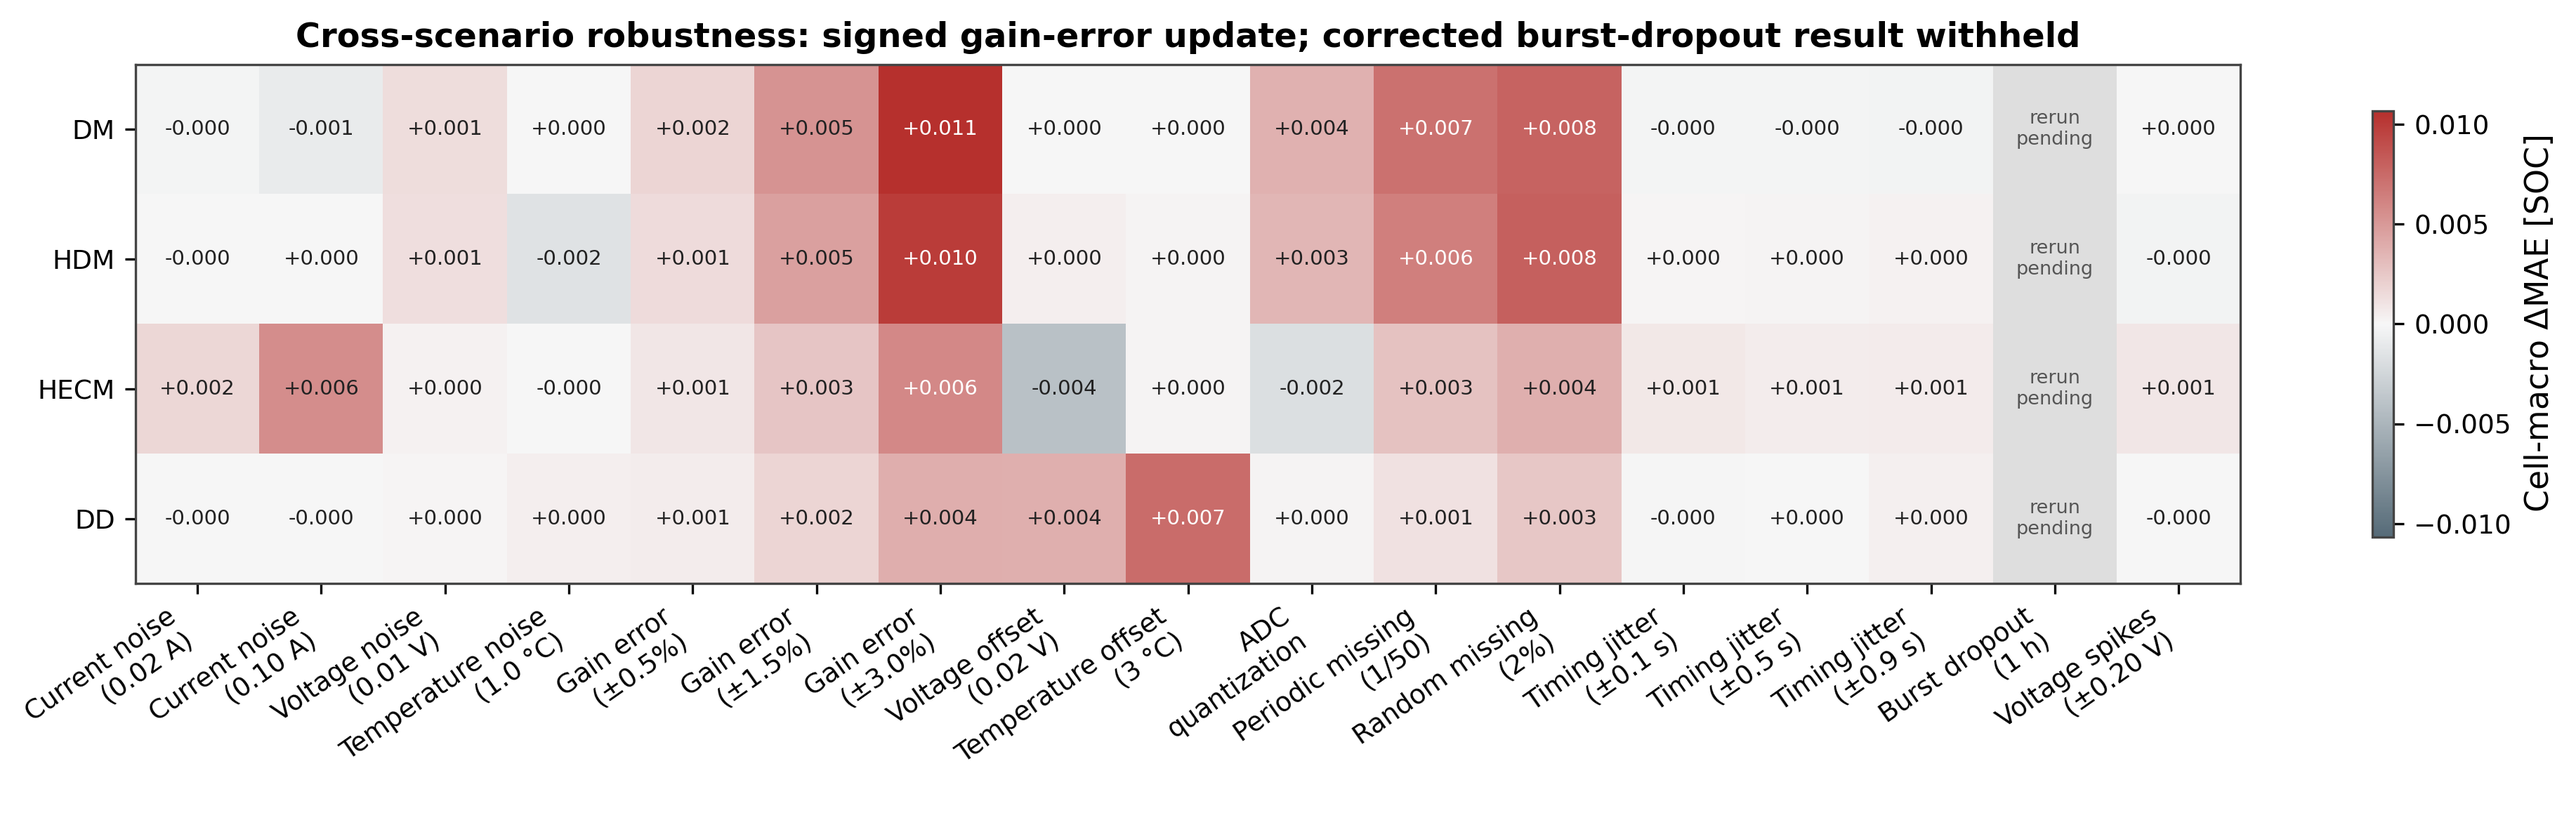
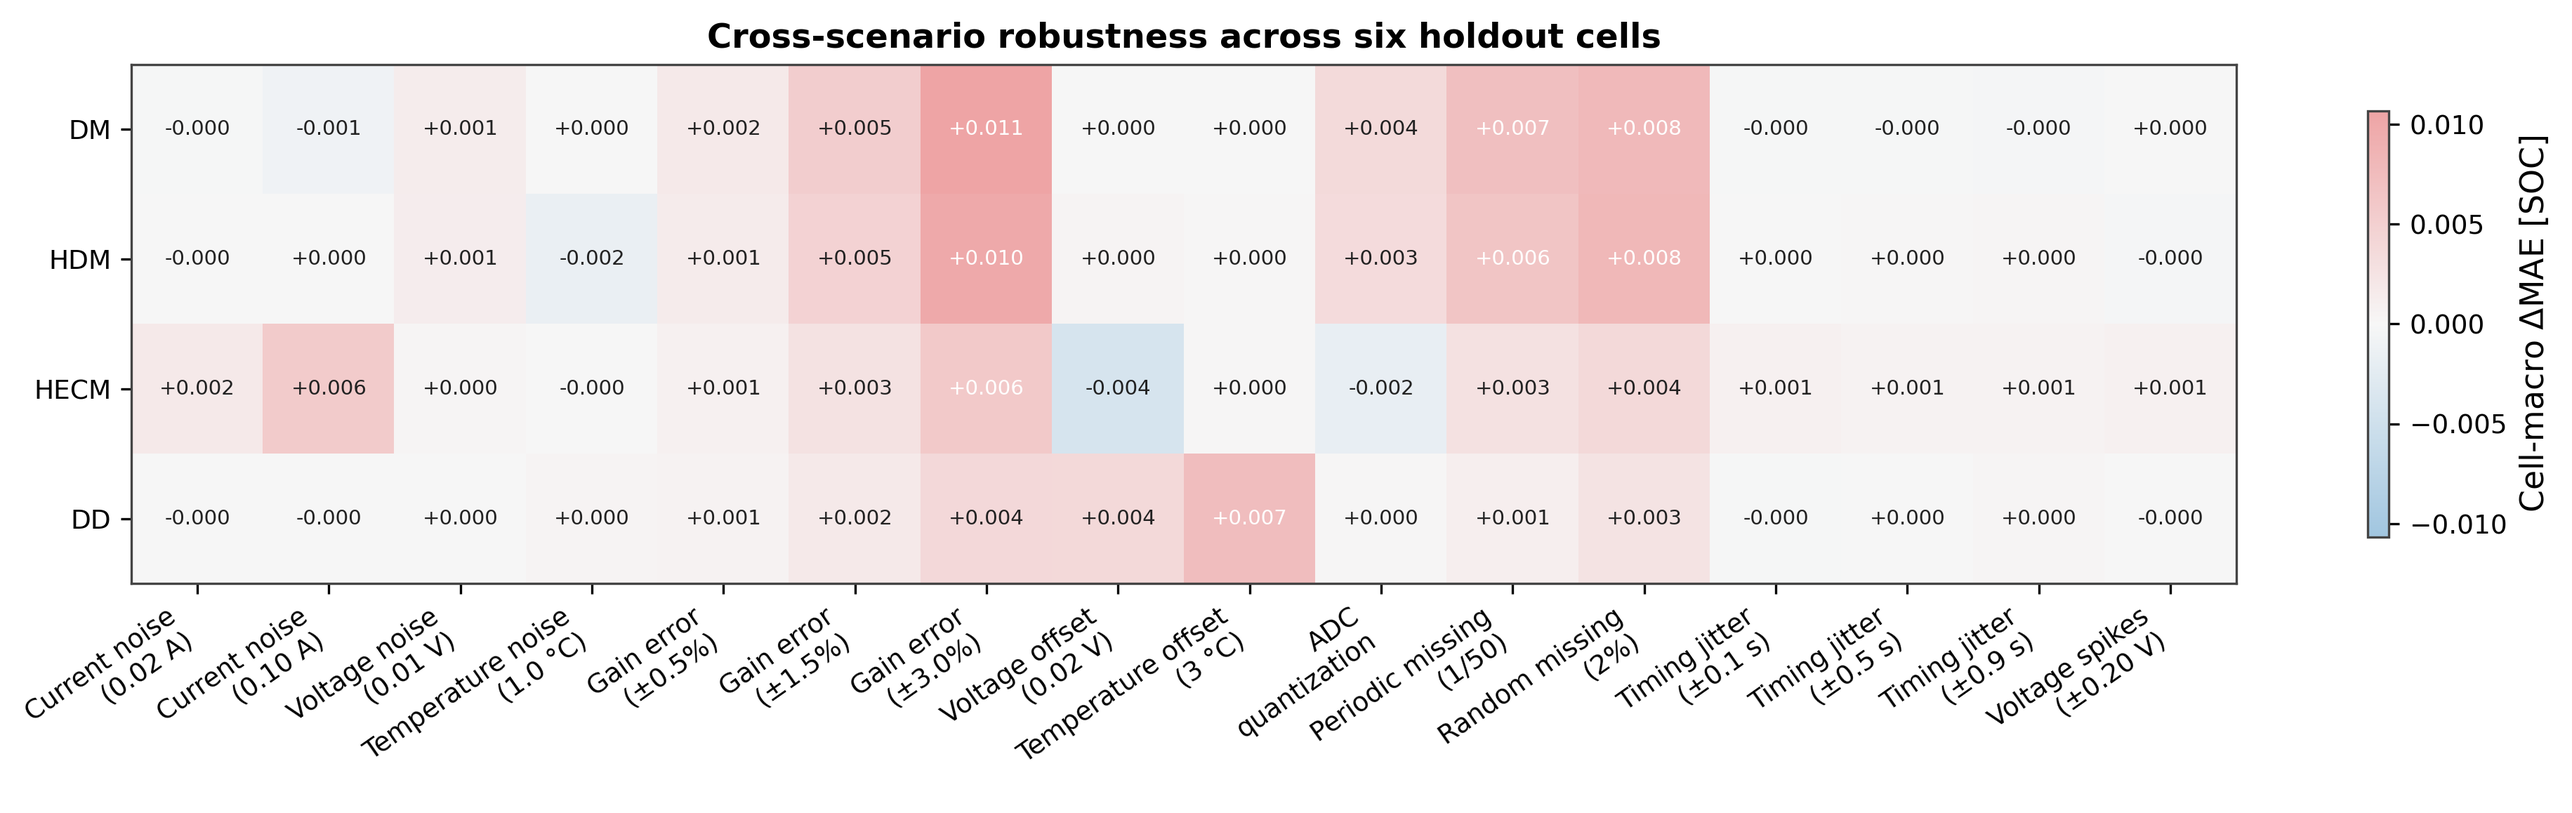
Update six-cell robustness heatmap palette

diff --git a/LATEX/JES/paper_robustness_benchmark/figures/build_revised_all_cells_figures.py b/LATEX/JES/paper_robustness_benchmark/figures/build_revised_all_cells_figures.py
@@ -3,12 +3,13 @@
 
 The script deliberately keeps the detailed dissertation figures untouched.  It
 creates complementary views whose local and aggregate statements use the same
-metric, replaces the current-bias heatmap entries with the signed paired sweep,
-and withholds burst-dropout scores until the corrected six-cell rerun exists.
+metric and replaces the current-bias heatmap entries with the signed paired
+sweep. Burst dropout is omitted because no corrected six-cell result exists.
 """
 
 from __future__ import annotations
 
+import argparse
 import json
 from pathlib import Path
 
@@ -56,7 +57,6 @@ ALIAS_ORDER = [
     "irregular_sampling_0p1s",
     "irregular_sampling_0p5s",
     "irregular_sampling_0p9s",
-    "missing_gap_1h",
     "voltage_spikes",
 ]
 
@@ -138,9 +138,6 @@ def revised_delta_matrix(aggregate: pd.DataFrame, signed_bias: pd.DataFrame) -> 
         replacement = signed_bias[np.isclose(signed_bias["bias_magnitude_pct"], magnitude)].set_index("model")["mean"]
         pivot.loc[:, alias] = replacement.reindex(MODEL_ORDER)
 
-    # The central-gap placement and online Q_c semantics changed.  Publishing
-    # the previous campaign value would imply a precision the data no longer has.
-    pivot.loc[:, "missing_gap_1h"] = np.nan
     return pivot
 
 
@@ -226,11 +223,13 @@ def figure_11_spike_susceptibility(run_metrics: pd.DataFrame, aggregate: pd.Data
     save(fig, "Figure_11_Voltage_Spike_Response_REVISED")
 
 
-def figure_12_heatmap(matrix: pd.DataFrame) -> None:
+def figure_12_heatmap(matrix: pd.DataFrame, output_path: Path | None = None) -> None:
     matrix.to_csv(RESULTS / "jes2_revised_delta_mae_matrix.csv")
     values = matrix.to_numpy(float)
     finite_limit = max(float(np.nanmax(np.abs(values))), 1e-6)
-    cmap = LinearSegmentedColormap.from_list("diss_diverging", ["#566b78", "#f7f7f7", "#b6302d"])
+    cmap = LinearSegmentedColormap.from_list(
+        "diss_diverging", ["#a1c6e0", "#f7f7f7", "#eea4a5"]
+    )
     cmap.set_bad("#dedede")
 
     fig, ax = plt.subplots(figsize=(13.8, 4.4))
@@ -245,11 +244,16 @@ def figure_12_heatmap(matrix: pd.DataFrame) -> None:
                 ax.text(col, row, f"{value:+.3f}", ha="center", va="center", fontsize=7,
                         color="white" if abs(value) > 0.55 * finite_limit else "#222222")
             else:
-                ax.text(col, row, "rerun\npending", ha="center", va="center", fontsize=6.5, color="#555555")
+                ax.text(col, row, "n/a", ha="center", va="center", fontsize=6.5, color="#555555")
     fig.colorbar(image, ax=ax, label=r"Cell-macro $\Delta$MAE [SOC]", shrink=0.82)
-    ax.set_title("Cross-scenario robustness: signed gain-error update; corrected burst-dropout result withheld")
+    ax.set_title("Cross-scenario robustness across six holdout cells")
     fig.subplots_adjust(left=0.055, right=0.96, bottom=0.30, top=0.86)
-    save(fig, "Figure_12_Cross_Scenario_Heatmap_REVISED")
+    if output_path is None:
+        save(fig, "Figure_12_Cross_Scenario_Heatmap_REVISED")
+    else:
+        output_path.parent.mkdir(parents=True, exist_ok=True)
+        fig.savefig(output_path, dpi=300, bbox_inches="tight", facecolor="white")
+        plt.close(fig)
 
 
 def initial_recovery_cell_means() -> pd.DataFrame:
@@ -377,18 +381,27 @@ def figure_13_decision(scores: pd.DataFrame, profiles: pd.DataFrame) -> None:
     bars.legend(ncol=4, frameon=False, loc="upper center", bbox_to_anchor=(0.5, 1.13))
     fig.suptitle("Decision synthesis updated with signed gain-error and paired Six-Cell recovery", fontsize=12)
     fig.text(0.5, 0.015,
-             "Higher is better. Burst dropout is excluded until the corrected Six-Cell rerun; weights are explicit decision profiles, not a universal ranking.",
+             "Higher is better. Burst dropout is excluded because no corrected Six-Cell result is available; weights are explicit decision profiles, not a universal ranking.",
              ha="center", fontsize=8.5, color="#555555")
     fig.subplots_adjust(left=0.05, right=0.98, bottom=0.13, top=0.84)
     save(fig, "Figure_13_Decision_Synthesis_REVISED")
 
 
 def main() -> None:
+    parser = argparse.ArgumentParser(description="Build revised six-cell JES figures.")
+    parser.add_argument("--figure-12-only", action="store_true")
+    parser.add_argument("--figure-12-output", type=Path, default=None)
+    args = parser.parse_args()
+
     setup_style()
     aggregate = pd.read_csv(RESULTS / "jes2_macro_statistics.csv")
-    run_metrics = pd.read_csv(RESULTS / "jes2_run_metrics.csv")
     signed_bias = pd.read_csv(RESULTS / "jes2_signed_current_bias_statistics.csv")
     matrix = revised_delta_matrix(aggregate, signed_bias)
+    if args.figure_12_only:
+        figure_12_heatmap(matrix, args.figure_12_output)
+        return
+
+    run_metrics = pd.read_csv(RESULTS / "jes2_run_metrics.csv")
     figure_11_spike_susceptibility(run_metrics, aggregate)
     figure_12_heatmap(matrix)
     scores, profiles = decision_scores(aggregate, matrix)

diff --git a/LATEX/JES/paper_robustness_benchmark/figures/Results/All Cells/README.md b/LATEX/JES/paper_robustness_benchmark/figures/Results/All Cells/README.md
@@ -17,7 +17,7 @@ Farbschema ist durchgängig DM = grün, HDM = lila, HECM = blau und DD = rot.
 | 09 | Durch `Figure_09_Burst_Dropout_Transition_CORR` ersetzt | Korrigierter C29-Übergang mit eingefrorenen Online-Zuständen während des Gaps. Das Six-Cell-Recovery-Panel stammt noch aus den bisherigen Vollkampagnen und muss nach einem vollständigen korrigierten Six-Cell-Rerun aktualisiert werden. |
 | 10 | Original erhalten, aber als `LEGACY_REVIEW` markiert | Verwendet das frühere Dropout-Protokoll; nicht als finales Ergebnis zitieren. Die gültige Übergangsdarstellung ist Fig. 09. |
 | 11 | Dissertation-Abbildung erhalten; 11b zeigt dieselbe >5%-Transientenmetrik als Six-Cell-Makro, Zellpunkte und HECM/DD-Aufschlüsselung nach SOH-Zustand | Der frühere DD-selektierte C29-Ausschnitt wurde entfernt, weil er die globale HECM-Anfälligkeit nicht erklären konnte. |
-| 12 | Dissertation-Abbildung erhalten; 12b verwendet die gepaarte ±Gain-Fehler-Auswertung | Burst dropout ist als `rerun pending` ausgegraut und wird nicht mit veralteten Zahlen dargestellt. |
+| 12 | Dissertation-Abbildung erhalten; 12b verwendet die gepaarte ±Gain-Fehler-Auswertung und die blau-weiß-rote Diss-Heatmap-Palette | Burst dropout ist aus 12b entfernt, weil nur ein korrigierter C29-Preview und kein korrigiertes Six-Cell-Makro vorliegt. Die frühere rot-graue Variante bleibt als `Figure_12b_Cross_Scenario_Heatmap_Six_Cell_Muted_Red_Gray.png` erhalten. |
 | 13 | Dissertation-Abbildung erhalten; Radar und Prioritätsprofile in 13b neu berechnet | Nutzt aktuelle Six-Cell-Baseline, gepaarte ±Gain-Fehler, korrigierte Initial-State-Kampagne; Dropout bis zum Rerun aus dem Score ausgeschlossen. |
 | 14 | Dissertation-Abbildung erhalten; aktuelle Six-Cell-Fassung als 14b ergänzt | Six-Cell-Zahlen sind die bevorzugte quantitative Ebene. |
 | 16, 17, 27–29 | Als besonders hilfreiche Ergänzungen aufgenommen | Dokumentieren Zellabdeckung, statistische Unsicherheit, Testmatrix, Auswertungslogik und gefrorene Evaluationsfenster. |
@@ -31,3 +31,6 @@ davon abhängige Cross-Scenario- und Decision-Abbildungen gelten erst nach einem
 vollständigen korrigierten Six-Cell-Rerun als final.
 
 Erzeugung: `python figures/build_all_cells_collection.py`
+
+Nur Figure 12b neu erzeugen:
+`python figures/build_revised_all_cells_figures.py --figure-12-only --figure-12-output "figures/Results/All Cells/Figure_12b_Cross_Scenario_Heatmap_Six_Cell.png"`
